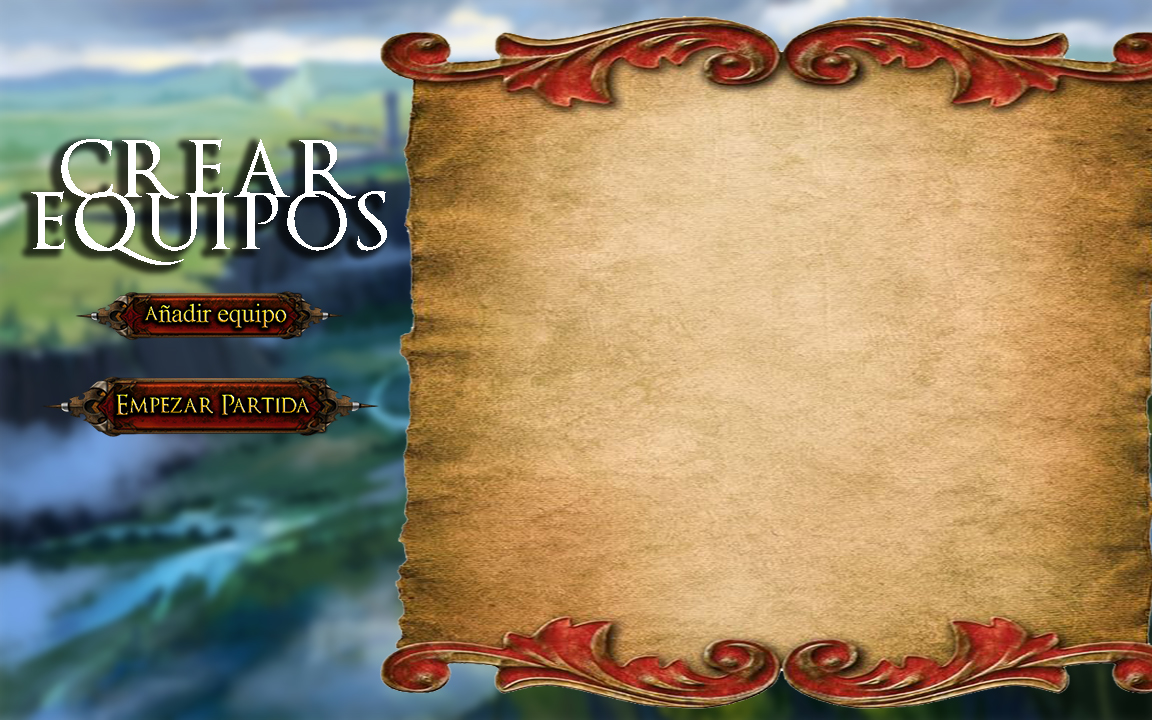
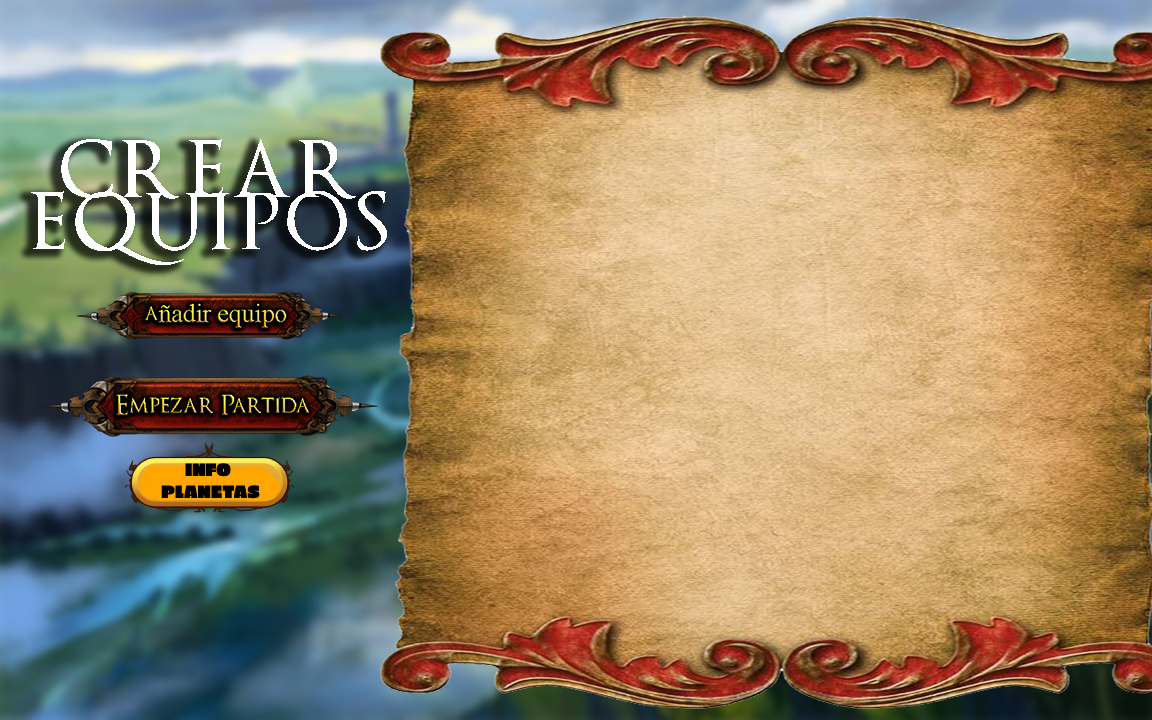
YA ESTA TODO

Changed region(s): [[0.0938, 0.6111, 0.25, 0.7333]]

diff --git a/src/main/java/swing/CrearEquipos.java b/src/main/java/swing/CrearEquipos.java
@@ -18,6 +18,7 @@ import javax.swing.JPanel;
 import javax.swing.JScrollBar;
 import javax.swing.JTextField;
 import java.awt.Color;
+import java.awt.Cursor;
 import java.awt.Font;
 import javax.swing.JOptionPane;
 import javax.swing.text.AttributeSet;
@@ -51,10 +52,22 @@ public class CrearEquipos extends javax.swing.JFrame {
         jPanel1.setOpaque(false);
         this.setResizable(false);
         this.setBounds(450, 200, 1027, 550);
-
+        jLabel2.setIcon(new javax.swing.ImageIcon("src\\main\\java\\img\\INFORMACION.jpg")); 
+         jLabel1.setIcon(new javax.swing.ImageIcon("src\\main\\java\\img\\fondocrearequipos1.jpg")); // NOI18N
+         jLabel2.setVisible(false);
+          jLabel1.setVisible(true);
+          jButton1.setVisible(false);
+          cursores();
         control = aThis;
     }
 
+    void cursores(){
+        
+        jButton1.setCursor(Cursor.getPredefinedCursor(Cursor.HAND_CURSOR));
+        btn_add.setCursor(Cursor.getPredefinedCursor(Cursor.HAND_CURSOR));
+        btn_create.setCursor(Cursor.getPredefinedCursor(Cursor.HAND_CURSOR));
+        btn_info.setCursor(Cursor.getPredefinedCursor(Cursor.HAND_CURSOR));
+    }
     private void addEquipo(int a) {
 
         for (int i = 0; i < a; i++) {
@@ -64,6 +77,7 @@ public class CrearEquipos extends javax.swing.JFrame {
 
             jPanel.setOpaque(false);
 
+           
             final JLabel jLabelimg = new javax.swing.JLabel();
             JTextField jTextField = new JTextField();
             JComboBox<String> jComboBox = new JComboBox<String>();
@@ -125,7 +139,10 @@ public class CrearEquipos extends javax.swing.JFrame {
         jPanel1 = new javax.swing.JPanel();
         btn_add = new javax.swing.JButton();
         btn_create = new javax.swing.JButton();
+        btn_info = new javax.swing.JButton();
+        jButton1 = new javax.swing.JButton();
         jLabel1 = new javax.swing.JLabel();
+        jLabel2 = new javax.swing.JLabel();
 
         setDefaultCloseOperation(javax.swing.WindowConstants.EXIT_ON_CLOSE);
         getContentPane().setLayout(new org.netbeans.lib.awtextra.AbsoluteLayout());
@@ -138,7 +155,7 @@ public class CrearEquipos extends javax.swing.JFrame {
         btn_add.setBorder(null);
         btn_add.setBorderPainted(false);
         btn_add.setContentAreaFilled(false);
-        btn_add.setCursor(new java.awt.Cursor(java.awt.Cursor.HAND_CURSOR));
+        btn_add.setCursor(new java.awt.Cursor(java.awt.Cursor.DEFAULT_CURSOR));
         btn_add.addActionListener(new java.awt.event.ActionListener() {
             public void actionPerformed(java.awt.event.ActionEvent evt) {
                 btn_addActionPerformed(evt);
@@ -149,7 +166,7 @@ public class CrearEquipos extends javax.swing.JFrame {
         btn_create.setBorder(null);
         btn_create.setBorderPainted(false);
         btn_create.setContentAreaFilled(false);
-        btn_create.setCursor(new java.awt.Cursor(java.awt.Cursor.HAND_CURSOR));
+        btn_create.setCursor(new java.awt.Cursor(java.awt.Cursor.DEFAULT_CURSOR));
         btn_create.addActionListener(new java.awt.event.ActionListener() {
             public void actionPerformed(java.awt.event.ActionEvent evt) {
                 btn_createActionPerformed(evt);
@@ -157,8 +174,29 @@ public class CrearEquipos extends javax.swing.JFrame {
         });
         getContentPane().add(btn_create, new org.netbeans.lib.awtextra.AbsoluteConstraints(100, 270, 220, 60));
 
-        jLabel1.setIcon(new javax.swing.ImageIcon("src\\main\\java\\img\\fondocrearequipos1.jpg")); // NOI18N
-        getContentPane().add(jLabel1, new org.netbeans.lib.awtextra.AbsoluteConstraints(0, 0, 1010, 510));
+        btn_info.setBorder(null);
+        btn_info.setBorderPainted(false);
+        btn_info.setContentAreaFilled(false);
+        btn_info.addActionListener(new java.awt.event.ActionListener() {
+            public void actionPerformed(java.awt.event.ActionEvent evt) {
+                btn_infoActionPerformed(evt);
+            }
+        });
+        getContentPane().add(btn_info, new org.netbeans.lib.awtextra.AbsoluteConstraints(140, 360, 130, 60));
+
+        jButton1.setBorder(null);
+        jButton1.setBorderPainted(false);
+        jButton1.setContentAreaFilled(false);
+        jButton1.addActionListener(new java.awt.event.ActionListener() {
+            public void actionPerformed(java.awt.event.ActionEvent evt) {
+                jButton1ActionPerformed(evt);
+            }
+        });
+        getContentPane().add(jButton1, new org.netbeans.lib.awtextra.AbsoluteConstraints(460, 230, 80, 30));
+        getContentPane().add(jLabel1, new org.netbeans.lib.awtextra.AbsoluteConstraints(0, 0, 1010, 520));
+
+        jLabel2.setIcon(new javax.swing.ImageIcon("D:\\Alex\\Documents\\DAW2\\Programacion\\ColdWarSwingBo\\src\\main\\java\\img\\INFORMACION.jpg")); // NOI18N
+        getContentPane().add(jLabel2, new org.netbeans.lib.awtextra.AbsoluteConstraints(0, 0, 1010, 520));
 
         pack();
     }// </editor-fold>//GEN-END:initComponents
@@ -243,6 +281,25 @@ public class CrearEquipos extends javax.swing.JFrame {
 
     }//GEN-LAST:event_btn_createActionPerformed
 
+    private void btn_infoActionPerformed(java.awt.event.ActionEvent evt) {//GEN-FIRST:event_btn_infoActionPerformed
+        // TODO add your handling code here:
+        
+        jPanel1.setVisible(false);
+        jLabel1.setVisible(false);
+        jLabel2.setVisible(true);
+        jButton1.setVisible(true);
+        
+    }//GEN-LAST:event_btn_infoActionPerformed
+
+    private void jButton1ActionPerformed(java.awt.event.ActionEvent evt) {//GEN-FIRST:event_jButton1ActionPerformed
+        // TODO add your handling code here
+          jLabel1.setVisible(true);
+        jLabel2.setVisible(false);
+        jButton1.setVisible(true);
+        jPanel1.setVisible(true);
+        
+    }//GEN-LAST:event_jButton1ActionPerformed
+
     /**
      * @param args the command line arguments
      */
@@ -281,7 +338,10 @@ public class CrearEquipos extends javax.swing.JFrame {
     // Variables declaration - do not modify//GEN-BEGIN:variables
     private javax.swing.JButton btn_add;
     private javax.swing.JButton btn_create;
+    private javax.swing.JButton btn_info;
+    private javax.swing.JButton jButton1;
     private javax.swing.JLabel jLabel1;
+    private javax.swing.JLabel jLabel2;
     private javax.swing.JPanel jPanel1;
     // End of variables declaration//GEN-END:variables
 }

diff --git a/src/main/java/swing/reglas.java b/src/main/java/swing/reglas.java
@@ -5,6 +5,8 @@
  */
 package swing;
 
+import java.awt.Cursor;
+
 /**
  *
  * @author DAW2
@@ -18,6 +20,7 @@ public class reglas extends javax.swing.JFrame {
         initComponents();
         this.setVisible(true);
           this.setResizable(false);
+          cursores();
          this.setBounds(400, 100, 1090, 750);
          jLabel2.setIcon(new javax.swing.ImageIcon("src\\main\\java\\img\\REGLAS.jpg")); // NOI18N
     }
@@ -32,7 +35,6 @@ public class reglas extends javax.swing.JFrame {
     private void initComponents() {
 
         jButton2 = new javax.swing.JButton();
-        jButton1 = new javax.swing.JButton();
         jButton3 = new javax.swing.JButton();
         jLabel2 = new javax.swing.JLabel();
 
@@ -40,14 +42,6 @@ public class reglas extends javax.swing.JFrame {
 
         setDefaultCloseOperation(javax.swing.WindowConstants.EXIT_ON_CLOSE);
         getContentPane().setLayout(new org.netbeans.lib.awtextra.AbsoluteLayout());
-
-        jButton1.setText("jButton1");
-        jButton1.addActionListener(new java.awt.event.ActionListener() {
-            public void actionPerformed(java.awt.event.ActionEvent evt) {
-                jButton1ActionPerformed(evt);
-            }
-        });
-        getContentPane().add(jButton1, new org.netbeans.lib.awtextra.AbsoluteConstraints(0, 0, 0, 0));
 
         jButton3.setBorder(null);
         jButton3.setBorderPainted(false);
@@ -63,10 +57,6 @@ public class reglas extends javax.swing.JFrame {
 
         pack();
     }// </editor-fold>//GEN-END:initComponents
-
-    private void jButton1ActionPerformed(java.awt.event.ActionEvent evt) {//GEN-FIRST:event_jButton1ActionPerformed
-        // TODO add your handling code here:
-    }//GEN-LAST:event_jButton1ActionPerformed
 
     private void jButton3ActionPerformed(java.awt.event.ActionEvent evt) {//GEN-FIRST:event_jButton3ActionPerformed
         // TODO add your handling code here:
@@ -108,9 +98,12 @@ public class reglas extends javax.swing.JFrame {
             }
         });
     }
-
+void cursores(){
+        
+        jButton3.setCursor(Cursor.getPredefinedCursor(Cursor.HAND_CURSOR));
+    
+    }
     // Variables declaration - do not modify//GEN-BEGIN:variables
-    private javax.swing.JButton jButton1;
     private javax.swing.JButton jButton2;
     private javax.swing.JButton jButton3;
     private javax.swing.JLabel jLabel2;

diff --git a/src/main/java/swing/Main.java b/src/main/java/swing/Main.java
@@ -6,6 +6,7 @@
 package swing;
 
 import coldware.Reproductor;
+import java.awt.Cursor;
 import javax.swing.JLabel;
 
 /**
@@ -27,7 +28,7 @@ Reproductor MP3 = new Reproductor();
         initComponents();
         this.setBounds(300,100,1250,750);
           this.setResizable(false);
-          
+          cursores();
         this.setVisible(true);
 jLabel3.setIcon(new javax.swing.ImageIcon("src\\main\\java\\img\\FONDOColdwarSwing.jpg")); // NOI18N
 jButton5.setIcon(new javax.swing.ImageIcon("src\\main\\java\\img\\musica muteada.png")); // NOI18N
@@ -127,7 +128,16 @@ jButton5.setIcon(new javax.swing.ImageIcon("src\\main\\java\\img\\musica muteada
             
 
  
-    
+       void cursores(){
+        
+        jButton1.setCursor(Cursor.getPredefinedCursor(Cursor.HAND_CURSOR));
+        jButton2.setCursor(Cursor.getPredefinedCursor(Cursor.HAND_CURSOR));
+        jButton3.setCursor(Cursor.getPredefinedCursor(Cursor.HAND_CURSOR));
+        jButton4.setCursor(Cursor.getPredefinedCursor(Cursor.HAND_CURSOR));
+        jButton5.setCursor(Cursor.getPredefinedCursor(Cursor.HAND_CURSOR));
+        jButton6.setCursor(Cursor.getPredefinedCursor(Cursor.HAND_CURSOR));
+    }
+       
     private void jButton1ActionPerformed(java.awt.event.ActionEvent evt) {//GEN-FIRST:event_jButton1ActionPerformed
         new ControlPartida().crearEquipos();
         this.setVisible(false);

diff --git a/src/main/java/swing/AccionPlanetas.java b/src/main/java/swing/AccionPlanetas.java
@@ -8,6 +8,7 @@ package swing;
 
 import coldware.Planeta;
 import java.awt.Color;
+import java.awt.Cursor;
 import java.awt.Dimension;
 import java.awt.Font;
 import java.awt.Toolkit;
@@ -45,7 +46,7 @@ public class AccionPlanetas extends javax.swing.JDialog {
          this.setResizable(false);
          this.setBounds(450,200,1000,590);
          
-         
+         cursores();
          jTextArea1.setBackground(new Color(10,0,0,0));
           jTextArea1.setOpaque(true);
          jTextArea1.setBorder(null);
@@ -190,7 +191,13 @@ public class AccionPlanetas extends javax.swing.JDialog {
         pack();
     }// </editor-fold>//GEN-END:initComponents
 
+void cursores(){
+        
+        jButtonAtacar.setCursor(Cursor.getPredefinedCursor(Cursor.HAND_CURSOR));
+        jButtonDefender.setCursor(Cursor.getPredefinedCursor(Cursor.HAND_CURSOR));
+        jButtonEjecutar.setCursor(Cursor.getPredefinedCursor(Cursor.HAND_CURSOR));
 
+    }
     private void jButtonAtacarActionPerformed(java.awt.event.ActionEvent evt) {//GEN-FIRST:event_jButtonAtacarActionPerformed
         
      

diff --git a/src/main/java/swing/ranking.java b/src/main/java/swing/ranking.java
@@ -7,6 +7,7 @@ package swing;
 
 import com.thoughtworks.xstream.XStream;
 import java.awt.Color;
+import java.awt.Cursor;
 import java.awt.Font;
 import java.io.File;
 import java.util.ArrayList;
@@ -34,7 +35,7 @@ public class ranking extends javax.swing.JFrame {
             jTextArea2.setFont(fuente);
         jTextArea2.setBackground(Color.orange);
          jTextArea2.setBorder(null);
-     
+     cursores();
         String ganadore="";
         File file = new File ("output.xml");
         XStream xstream=new XStream();
@@ -118,6 +119,11 @@ public class ranking extends javax.swing.JFrame {
         pack();
     }// </editor-fold>//GEN-END:initComponents
 
+    void cursores(){
+        
+        jButton1.setCursor(Cursor.getPredefinedCursor(Cursor.HAND_CURSOR));
+
+    }
     private void jButton1ActionPerformed(java.awt.event.ActionEvent evt) {//GEN-FIRST:event_jButton1ActionPerformed
         // TODO add your handling code here:
          new Main();

diff --git a/src/main/java/swing/ResumenRonda.java b/src/main/java/swing/ResumenRonda.java
@@ -7,6 +7,7 @@ package swing;
 import coldware.Planeta;
 import coldware.Planeta;
 import java.awt.Color;
+import java.awt.Cursor;
 import java.awt.Font;
 import java.util.ArrayList;
 import java.util.List;
@@ -27,7 +28,7 @@ public class ResumenRonda extends javax.swing.JDialog {
         initComponents();
           this.setResizable(false);
            this.setBounds(450,200,1015,550);
-          
+          cursores();
           jTextArea1.setOpaque(true);
          jTextArea1.setBackground(new Color(0,0,0,0));
          jTextArea1.setBorder(null);
@@ -126,7 +127,11 @@ public class ResumenRonda extends javax.swing.JDialog {
     }//GEN-LAST:event_jButton1ActionPerformed
 
   
-           
+           void cursores(){
+        
+        jButton1.setCursor(Cursor.getPredefinedCursor(Cursor.HAND_CURSOR));
+
+    }
  
     void setimagenes(){
 		  jLabel1.setIcon(new javax.swing.ImageIcon("src\\main\\java\\img\\fondoresumenronda.jpg")); // NOI18N

diff --git a/src/main/java/swing/ganador.java b/src/main/java/swing/ganador.java
@@ -9,6 +9,7 @@ import coldware.Planeta;
 import java.util.List;
 import com.thoughtworks.xstream.XStream;
 import com.thoughtworks.xstream.io.xml.DomDriver;
+import java.awt.Cursor;
 import java.awt.Font;
 import java.io.File;
 import java.io.FileWriter;
@@ -35,6 +36,7 @@ public class ganador extends javax.swing.JFrame {
         initComponents();
           this.setResizable(false);
           this.setBounds(350,150,1195,760);  
+          cursores();
         addimg();
         empate(planetas);
         HashMap<String, Integer> Ganadores = new HashMap<String, Integer>();
@@ -166,6 +168,11 @@ public class ganador extends javax.swing.JFrame {
         
     }
     
+    void cursores(){
+        
+        jButton1.setCursor(Cursor.getPredefinedCursor(Cursor.HAND_CURSOR));
+    
+    }
     void empate(List<Planeta> planetas){
         
         if(planetas.size()<1){

diff --git a/src/main/java/swing/informacion.java b/src/main/java/swing/informacion.java
@@ -5,6 +5,8 @@
  */
 package swing;
 
+import java.awt.Cursor;
+
 /**
  *
  * @author DAW2
@@ -16,6 +18,7 @@ public class informacion extends javax.swing.JFrame {
      */
     public informacion() {
         initComponents();
+        cursores();
           this.setBounds(400, 100, 1090, 750);
           jLabel2.setIcon(new javax.swing.ImageIcon("src\\main\\java\\img\\AUTORES.jpg"));
         this.setVisible(true);
@@ -59,7 +62,11 @@ public class informacion extends javax.swing.JFrame {
         this.setVisible(false);
         
     }//GEN-LAST:event_jButton1ActionPerformed
-
+void cursores(){
+        
+        jButton1.setCursor(Cursor.getPredefinedCursor(Cursor.HAND_CURSOR));
+     
+    }
     /**
      * @param args the command line arguments
      */
